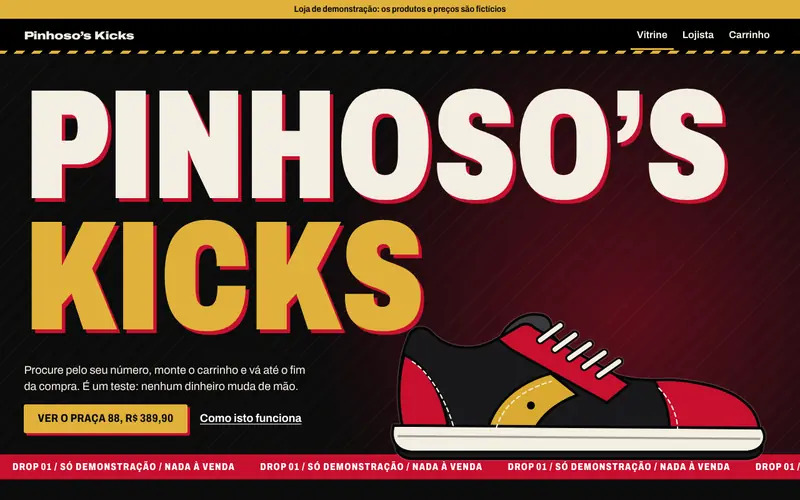
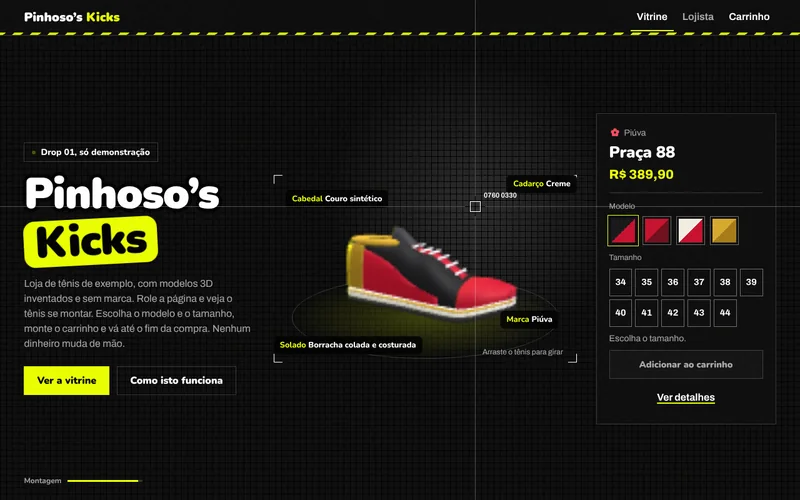
Troca a imagem do Pinhoso's Kicks pelo visual novo
- img/projetos/pinhosos.webp: nova captura (800x500) do site com o visual Subsolo e o tênis em 3D. A mesma imagem serve o cartão do site e o portfólio em /rtj/.
- index.html: texto alternativo da imagem atualizado para descrever a tela nova.

diff --git a/index.html b/index.html
@@ -462,7 +462,7 @@ vendas     ###</pre>
   <p class="aba-desc">Cada site tem identidade própria: cores, tipografia e layout pensados para aquele negócio, como se fosse um cliente de verdade. Abra, mexa, teste no celular.</p>
   <ul class="projs">
     <li class="proj">
-      <a class="proj-img" rel="noopener noreferrer" target="_blank" href="https://toshiro01001.github.io/tenis-primeiro/" aria-label="Abrir Pinhoso&#x27;s Kicks"><img src="img/projetos/pinhosos.webp" width="800" height="500" loading="lazy" decoding="async" alt="Página inicial da loja de tênis Pinhoso&#x27;s Kicks, em preto, dourado e vermelho"></a>
+      <a class="proj-img" rel="noopener noreferrer" target="_blank" href="https://toshiro01001.github.io/tenis-primeiro/" aria-label="Abrir Pinhoso&#x27;s Kicks"><img src="img/projetos/pinhosos.webp" width="800" height="500" loading="lazy" decoding="async" alt="Página inicial da loja de tênis Pinhoso&#x27;s Kicks, em preto e amarelo, com um tênis em 3D no centro"></a>
       <h4>Pinhoso's Kicks</h4>
       <p>Loja virtual streetwear com catálogo, carrinho, cupom, compra simulada e área do lojista.</p>
       <p class="pilha">HTML, CSS, JavaScript</p>
